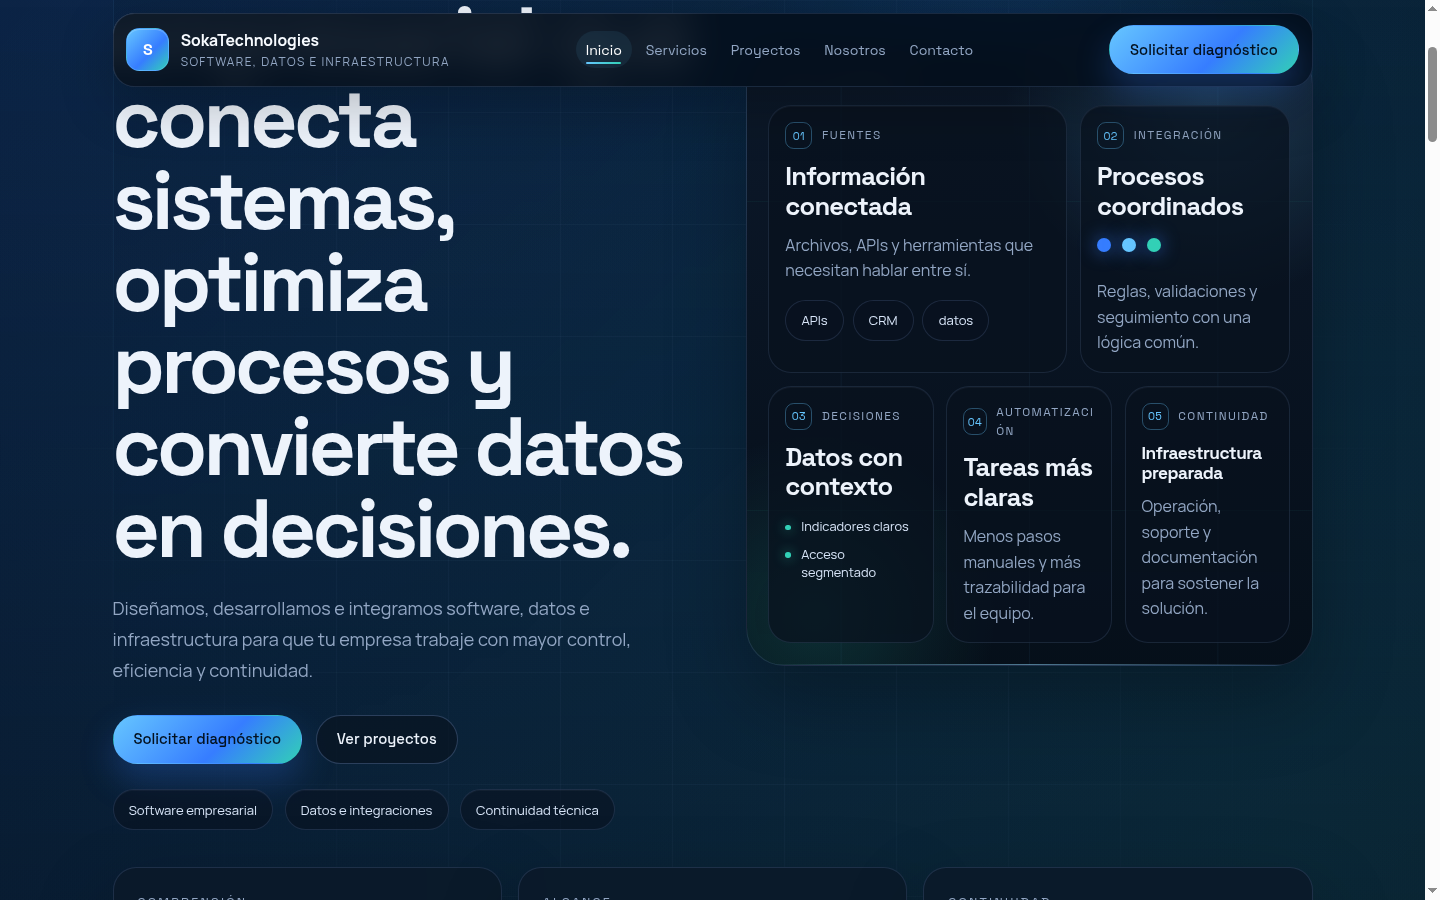
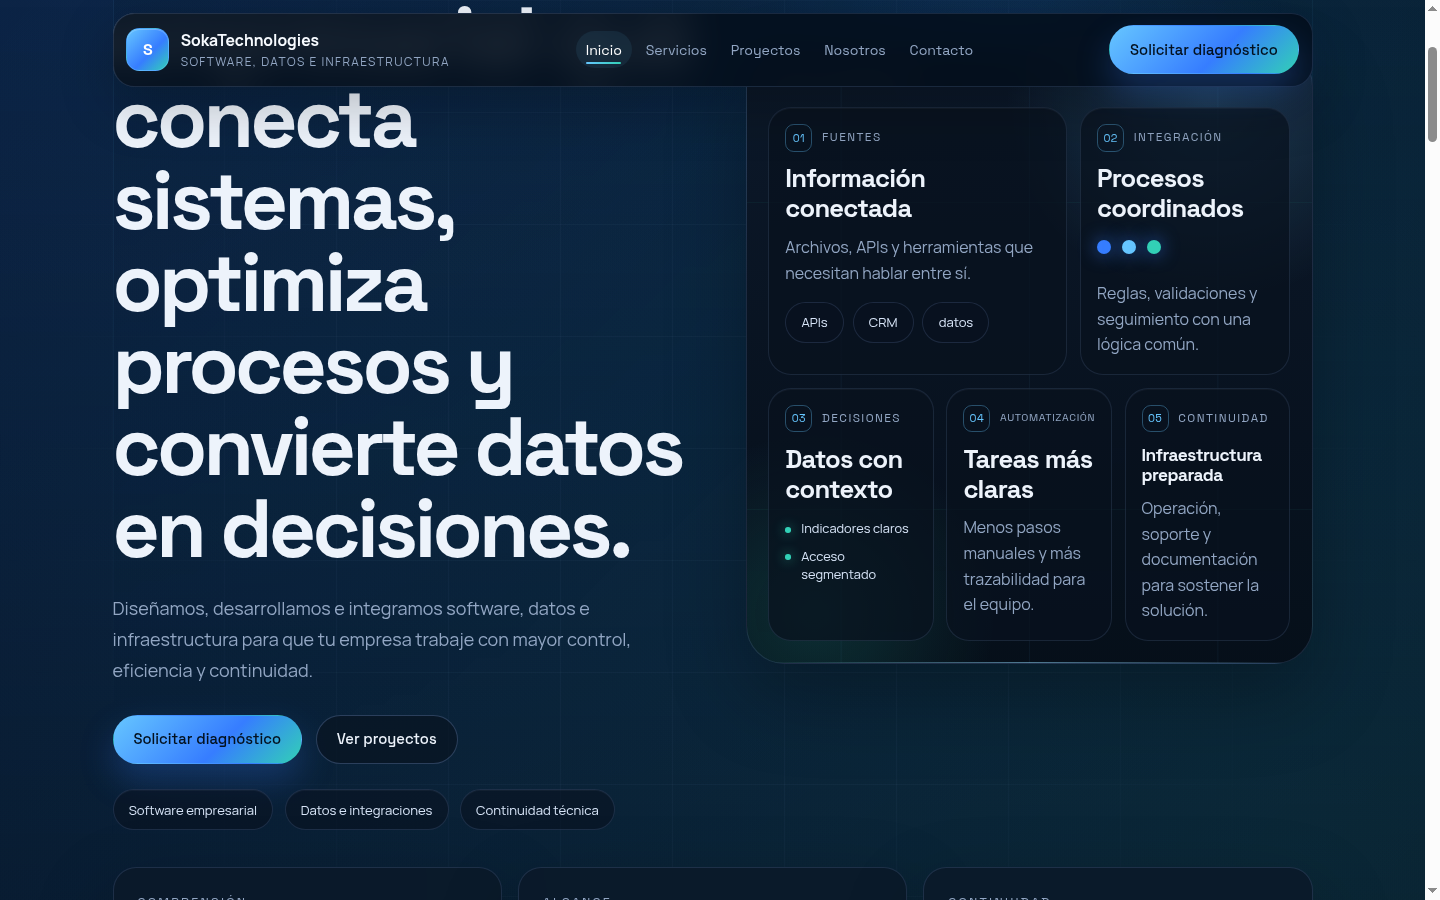
fix: ajusta etiquetas del mapa y proyectos

diff --git a/src/styles/global.css b/src/styles/global.css
@@ -541,6 +541,13 @@ form,
   margin: 0;
 }
 
+.card-integrations .card-label {
+  white-space: nowrap;
+  overflow-wrap: normal;
+  font-size: 0.66rem;
+  letter-spacing: 0.06em;
+}
+
 .hero-node-index {
   display: grid;
   place-items: center;
